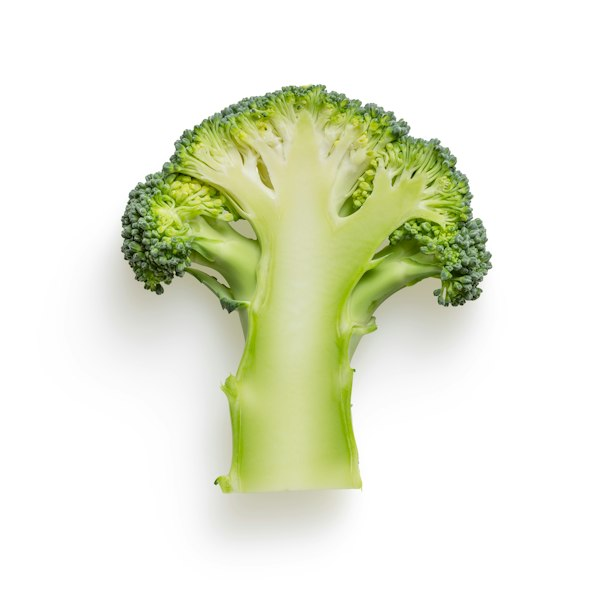
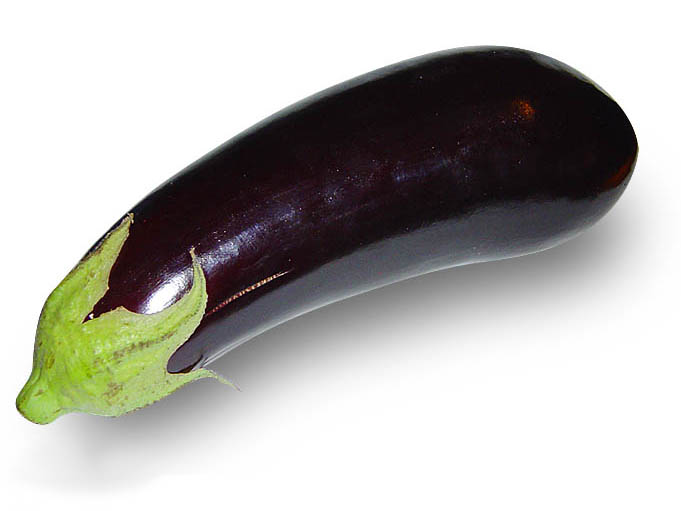
fix: replace jute, cabbage, and eggplant cards with authentic high-res field and vegetable photos

diff --git a/config/crops.ts b/config/crops.ts
@@ -95,7 +95,7 @@ export const CROPS: CropConfig[] = [
     nameBn: "বাঁধাকপি/ফুলকপি",
     nameEn: "Cabbage & Cauliflower",
     icon: "Shrub",
-    imageUrl: "https://images.unsplash.com/photo-1598030304671-5aa1d6f21128?w=360&h=360&fit=crop&auto=format&q=80",
+    imageUrl: "/crops/cabbage.jpg",
     color: "#388E3C",
     commonInBangladesh: true,
   },
